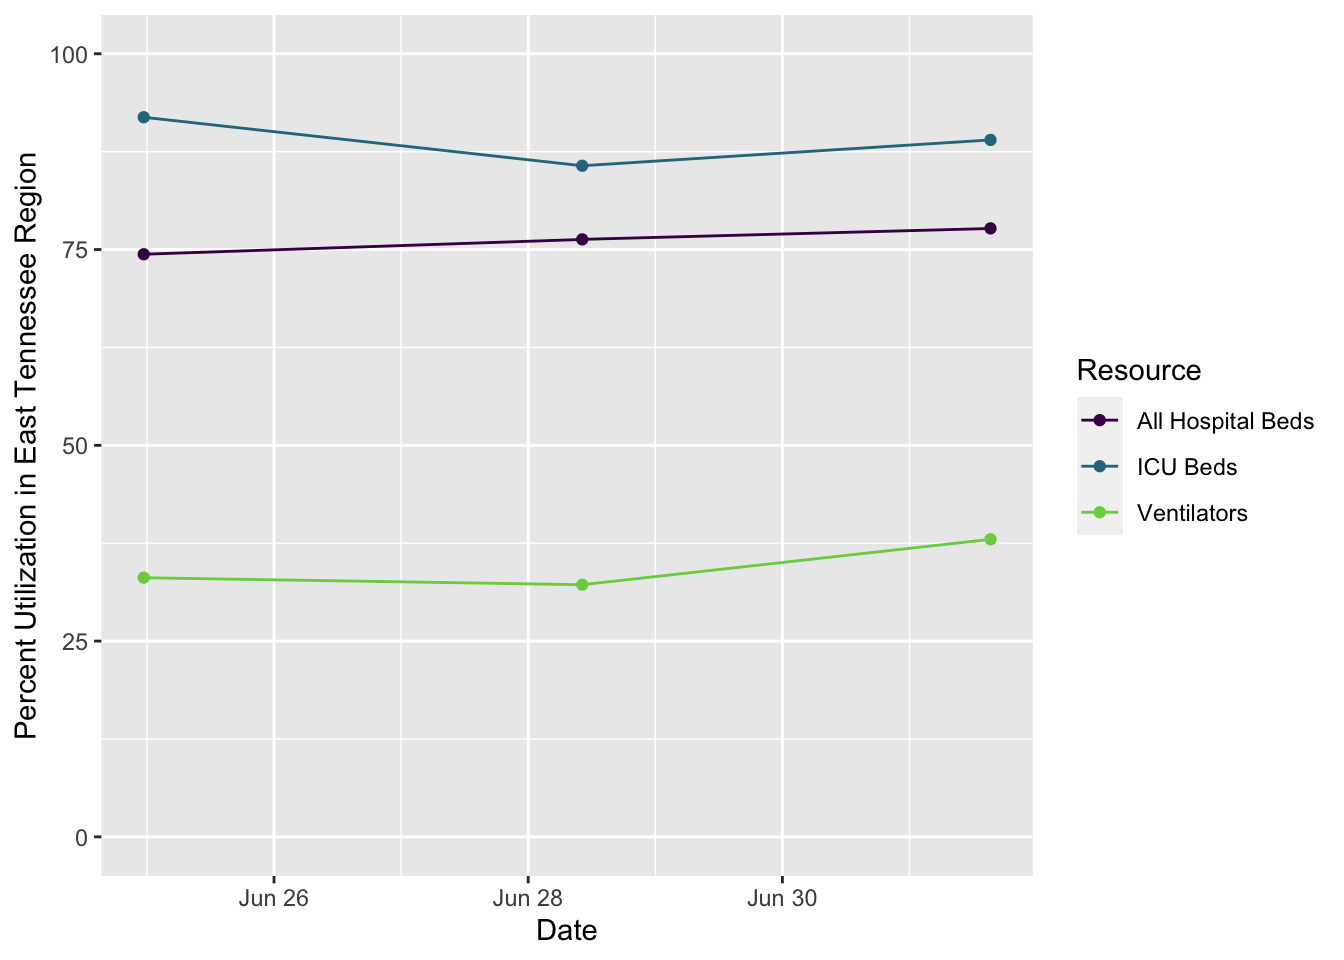
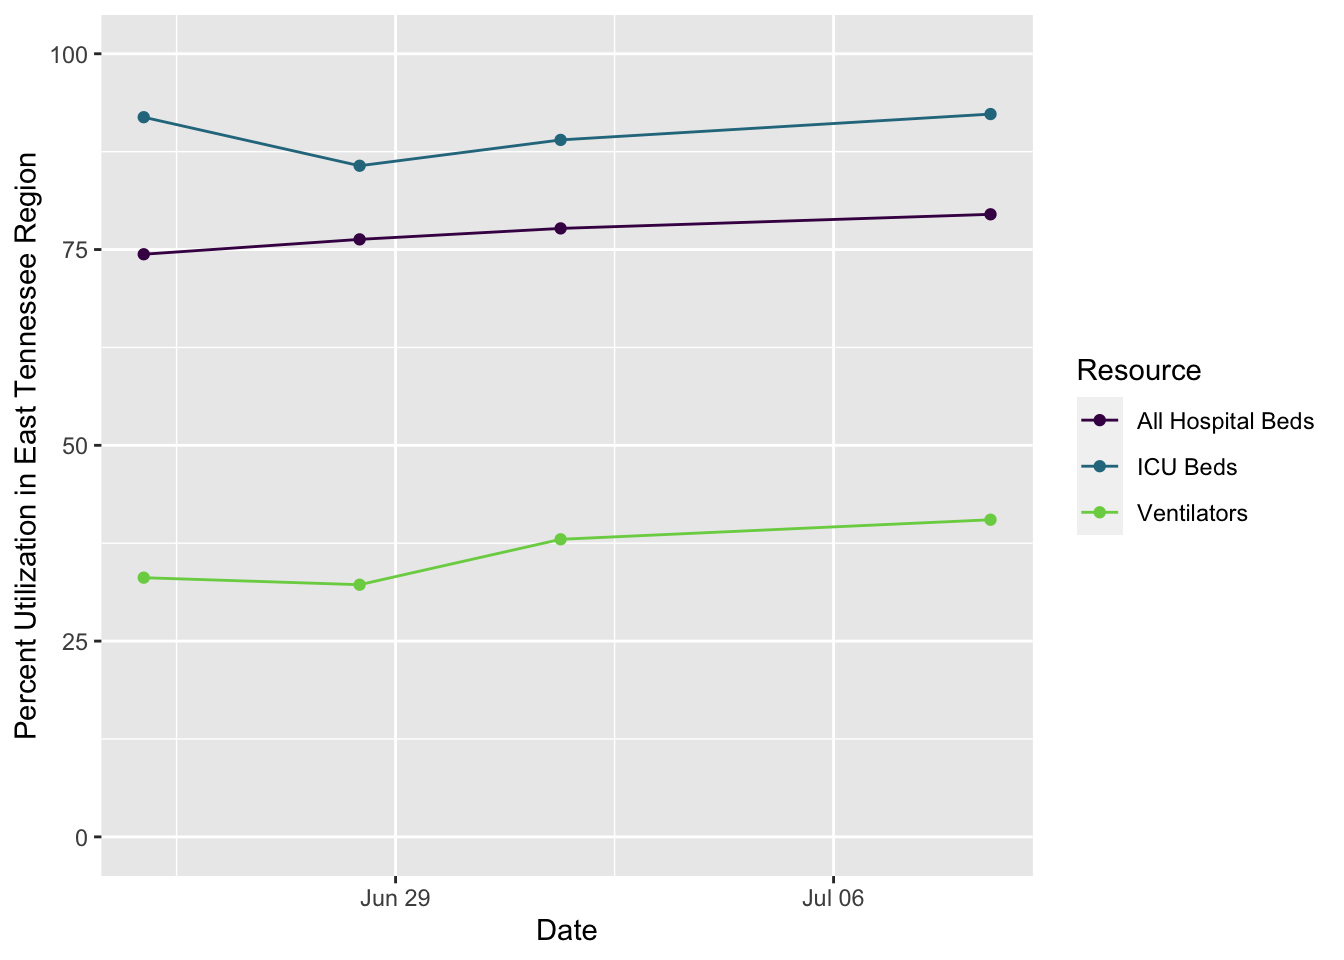
updating site

diff --git a/docs/covid.html b/docs/covid.html
@@ -412,7 +412,7 @@ $(document).ready(function () {
 <li><a href="https://projects.propublica.org/reopening-america/">ProPublica’s tracker of state status</a>. Click on the play button below their map to see how rates are changing over time, and dig into info on your state.</li>
 </ul>
 <hr />
-<p>Here are some plots, created in R using data from <a href="https://covid19datahub.io" class="uri">https://covid19datahub.io</a> (Guidotti, E., Ardia, D., (2020), “COVID-19 Data Hub”, Working paper, doi: 10.13140/RG.2.2.11649.81763), as well as information from Google and the <a href="https://www.tn.gov/health/cedep/ncov/data/downloadable-datasets.html">state of Tennessee dataset page</a> and plotting and analysis using the <code>forecast</code>, <code>ggplot2</code>, <code>reshape2</code>, and <code>dplyr</code> packages. It also uses the <a href="https://github.com/mtna/rds-r">rds-r</a> package from <a href="https://www.richdataservices.com/" class="uri">https://www.richdataservices.com/</a>. Plots created on 2020-07-08 08:44:47. I use <code>ggplot2</code>’s <code>geom_smooth()</code> function for the smoothed regression plots with its default formula, which uses loess smoothing for this many points. This is not based on a model of disease spread or anything similarly sophisticated, just drawing a smooth curve to summarize noisy points (see <a href="https://www.itl.nist.gov/div898/handbook/pmd/section1/pmd144.htm">here</a> for more details).</p>
+<p>Here are some plots, created in R using data from <a href="https://covid19datahub.io" class="uri">https://covid19datahub.io</a> (Guidotti, E., Ardia, D., (2020), “COVID-19 Data Hub”, Working paper, doi: 10.13140/RG.2.2.11649.81763), as well as information from Google and the <a href="https://www.tn.gov/health/cedep/ncov/data/downloadable-datasets.html">state of Tennessee dataset page</a> and plotting and analysis using the <code>forecast</code>, <code>ggplot2</code>, <code>reshape2</code>, and <code>dplyr</code> packages. It also uses the <a href="https://github.com/mtna/rds-r">rds-r</a> package from <a href="https://www.richdataservices.com/" class="uri">https://www.richdataservices.com/</a>. Plots created on 2020-07-08 14:31:15. I use <code>ggplot2</code>’s <code>geom_smooth()</code> function for the smoothed regression plots with its default formula, which uses loess smoothing for this many points. This is not based on a model of disease spread or anything similarly sophisticated, just drawing a smooth curve to summarize noisy points (see <a href="https://www.itl.nist.gov/div898/handbook/pmd/section1/pmd144.htm">here</a> for more details).</p>
 <p>The number of new and active cases should be not be going up if things are well-controlled, and ideally should be going down. The number of active cases is the number of positive cases minus the total of recovered or deceased cases: note it is from those tested and shown to be positive, but there are likely more people with covid who have not been tested. This uses data from <a href="https://www.tn.gov/health/cedep/ncov/data/downloadable-datasets.html" class="uri">https://www.tn.gov/health/cedep/ncov/data/downloadable-datasets.html</a>. Note that the number of active cases in Knox County reported by the state differs from the <a href="https://covid.knoxcountytn.gov/case-count.html#covid_data">county website</a>, sometimes dramatically (on June 16, the county website said 102 active cases, while the state says 178, for example) – I suspect this is based on the number of recovered cases not being updated as quickly in the state data, but I do not know. Knox County does not seem to offer a download of their data through time, so I am using the state’s data. The number of new cases per day seems to align fairly well, but not perfectly, between the state and county data, too.</p>
 <p><img src="covid_files/figure-html/plotsA-1.png" width="672" /><img src="covid_files/figure-html/plotsA-2.png" width="672" /></p>
 <p>A question is whether testing is adequate. The White House has said about 30 tests per 1000 people per month is adequate (this is also what <a href="https://projects.propublica.org/reopening-america/#notes">ProPublica</a> uses); others have argued that around 45 tests per 1000 people per month is better, though with variation depending on infection rate (see <a href="https://www.statnews.com/2020/04/27/coronavirus-many-states-short-of-testing-levels-needed-for-safe-reopening/">here</a>). These are the black lines on the plots below (calculated as tests per day, given Knox County’s population of 470313).</p>
@@ -429,7 +429,7 @@ $(document).ready(function () {
 <h2>
 Hospitalization
 </h2>
-<p>Currently, regional hospitals have 30 ICU beds available of 272 total, and 150 available ventilators out of 242 total. When a line hits 100%, the local hospitals are theoretically full for that resource (for all patients, not just covid patients), though there is surge capacity on top of this. Note that these data are updated every few days: I use a dot at the first point for a new set of data.</p>
+<p>Currently, regional hospitals have 71 ICU beds available of 272 total, and 144 available ventilators out of 242 total. When a line hits 100%, the local hospitals are theoretically full for that resource (for all patients, not just covid patients), though there is surge capacity on top of this. Note that these data are updated every few days: I use a dot at the first point for a new set of data.</p>
 <p><img src="covid_files/figure-html/hospitalcapacityplot-1.png" width="672" /></p>
 <p>Trends in hospitalization of covid patients over time</p>
 <p><img src="covid_files/figure-html/plotsD-1.png" width="672" /><img src="covid_files/figure-html/plotsD-2.png" width="672" /></p>
